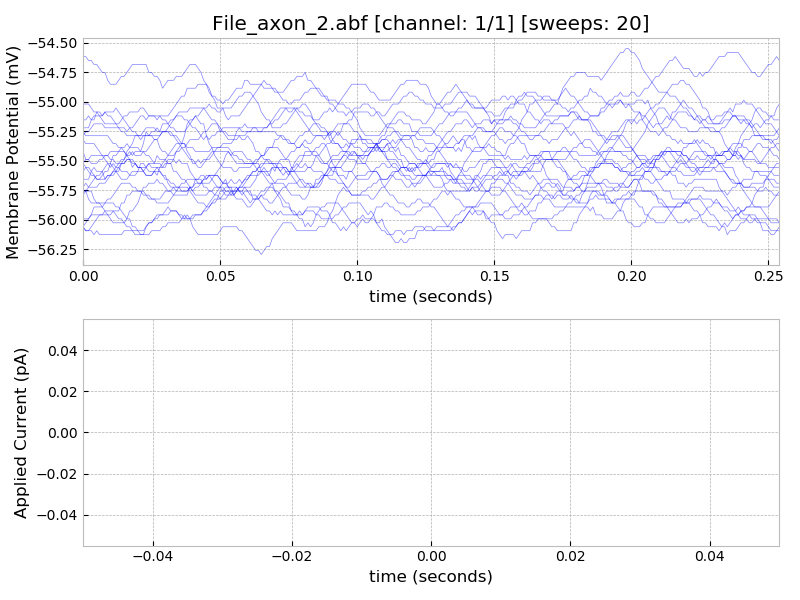
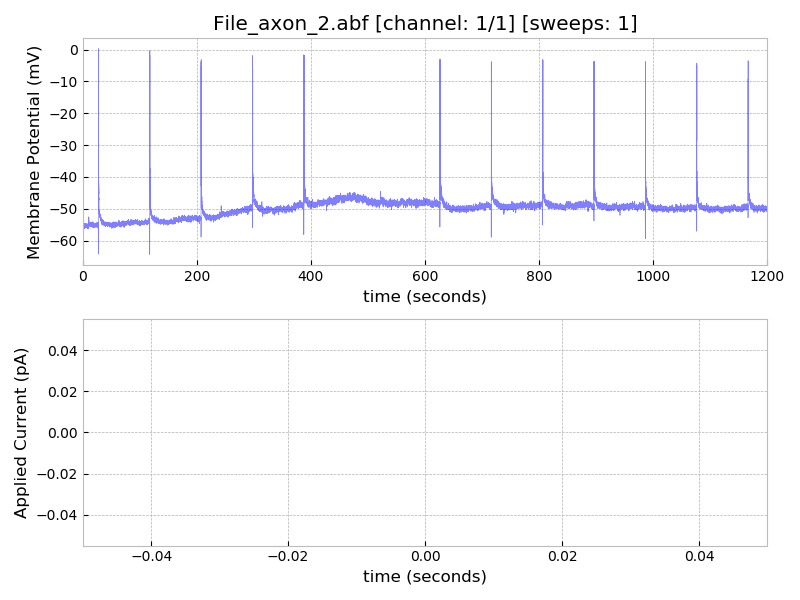
fixed ABF1 gap free bug
Previously some ABF1 gap free files were loading with numerous sweeps. Gap free files should have a single sweep. This fix corrected graphs/headers of 3 of files in the demo folder!

diff --git a/src/pyabf/abf.py b/src/pyabf/abf.py
@@ -224,8 +224,16 @@ class ABF:
     def _makeAdditionalVariables(self):
         """create or touch-up version-nonspecific variables."""
 
+        # ensure gap-free files have a single sweep
+        if self.abfVersion["major"]==1:
+            if self._headerV1.nOperationMode == 3:
+                self.sweepCount = 1
+        if self.abfVersion["major"]==2:
+            if self._protocolSection.nOperationMode == 3:
+                self.sweepCount = 1
+
         # sweep information
-        if self.sweepCount == 0:  # gap free
+        if self.sweepCount == 0:
             self.sweepCount = 1
         self.sweepPointCount = int(
             self.dataPointCount / self.sweepCount / self.channelCount)

diff --git a/dev/python/2018-11-20 test new abf.py b/dev/python/2018-11-20 test new abf.py
@@ -1,0 +1,23 @@
+"""
+I got an email indicating this ABF wouldn't load properly.
+It seems to be a gap-free protocol, but is being loaded as >1000 sweeps!
+"""
+
+import os
+import sys
+import glob
+import time
+import numpy as np
+import matplotlib.pyplot as plt
+
+PATH_HERE = os.path.abspath(os.path.dirname(__file__))
+PATH_DATA = os.path.abspath(PATH_HERE+"../../../data/abfs/")
+PATH_SRC = os.path.abspath(PATH_HERE+"../../../src/")
+sys.path.insert(0, PATH_SRC)
+import pyabf
+
+if __name__=="__main__":
+    abf = pyabf.ABF(PATH_DATA+"/sample trace_0054.abf")
+    plt.plot(abf.sweepX, abf.sweepY)
+    plt.show()
+    print(abf)

diff --git a/tests/tests/valueChecks.py b/tests/tests/valueChecks.py
@@ -69,6 +69,7 @@ FIRSTVALUES['File_axon_7'] = ['-1.48067']
 FIRSTVALUES['File_axon_1'] = ['2.18811']
 FIRSTVALUES['abf1_with_tags'] = ['-34.54589']
 FIRSTVALUES['2018_11_16_sh_0006'] = ['-119.14062']
+FIRSTVALUES['sample trace_0054'] = ['0.00931']
 
 def go():
     print("Checking first values ", end="")

diff --git a/data/readme.md b/data/readme.md
@@ -42,14 +42,14 @@ ABF Information | Header Map | Thumbnails
 **2018_08_23_0009.abf**<br />ABF Version: 2.6.0.0<br />Channels: 1 (pA)<br />Sweeps: 40<br />Protocol: _0201 memtest_ | ![headers/2018_08_23_0009_map.png](headers/2018_08_23_0009_map.png)<br />[view entire header](headers/2018_08_23_0009.md) | ![headers/2018_08_23_0009.png](headers/2018_08_23_0009.png)
 **2018_11_16_sh_0006.abf**<br />ABF Version: 2.6.0.0<br />Channels: 1 (pA)<br />Sweeps: 60<br />Protocol: _0201 memtest_ | ![headers/2018_11_16_sh_0006_map.png](headers/2018_11_16_sh_0006_map.png)<br />[view entire header](headers/2018_11_16_sh_0006.md) | ![headers/2018_11_16_sh_0006.png](headers/2018_11_16_sh_0006.png)
 **File_axon_1.abf**<br />ABF Version: 2.0.0.0<br />Channels: 1 (pA)<br />Sweeps: 1<br />Protocol: _VC_cour01G20_ | ![headers/File_axon_1_map.png](headers/File_axon_1_map.png)<br />[view entire header](headers/File_axon_1.md) | ![headers/File_axon_1.png](headers/File_axon_1.png)
-**File_axon_2.abf**<br />ABF Version: 1.8.3.0<br />Channels: 1 (mV)<br />Sweeps: 4688<br />Protocol: _Cc_minidigi_ | ![headers/File_axon_2_map.png](headers/File_axon_2_map.png)<br />[view entire header](headers/File_axon_2.md) | ![headers/File_axon_2.png](headers/File_axon_2.png)
+**File_axon_2.abf**<br />ABF Version: 1.8.3.0<br />Channels: 1 (mV)<br />Sweeps: 1<br />Protocol: _Cc_minidigi_ | ![headers/File_axon_2_map.png](headers/File_axon_2_map.png)<br />[view entire header](headers/File_axon_2.md) | ![headers/File_axon_2.png](headers/File_axon_2.png)
 **File_axon_3.abf**<br />ABF Version: 1.8.3.0<br />Channels: 2 (mV, pA)<br />Sweeps: 5<br />Protocol: _Cc_stim ONL_ | ![headers/File_axon_3_map.png](headers/File_axon_3_map.png)<br />[view entire header](headers/File_axon_3.md) | ![headers/File_axon_3.png](headers/File_axon_3.png)
 **File_axon_4.abf**<br />ABF Version: 2.0.0.0<br />Channels: 1 (pA)<br />Sweeps: 1<br />Protocol: _VC_cour01G20_ | ![headers/File_axon_4_map.png](headers/File_axon_4_map.png)<br />[view entire header](headers/File_axon_4.md) | ![headers/File_axon_4.png](headers/File_axon_4.png)
 **File_axon_5.abf**<br />ABF Version: 2.0.0.0<br />Channels: 1 (mV)<br />Sweeps: 9<br />Protocol: _step cclamp_ | ![headers/File_axon_5_map.png](headers/File_axon_5_map.png)<br />[view entire header](headers/File_axon_5.md) | ![headers/File_axon_5.png](headers/File_axon_5.png)
 **File_axon_6.abf**<br />ABF Version: 2.0.0.0<br />Channels: 2 (mV, nA)<br />Sweeps: 32<br />Protocol: _step cclamp 2nA for 2ms_ | ![headers/File_axon_6_map.png](headers/File_axon_6_map.png)<br />[view entire header](headers/File_axon_6.md) | ![headers/File_axon_6.png](headers/File_axon_6.png)
 **File_axon_7.abf**<br />ABF Version: 2.6.0.0<br />Channels: 1 (pA)<br />Sweeps: 12<br />Protocol: _Apl NMDA 2 s -80mV cada 2ms esp 10 2480us_ | ![headers/File_axon_7_map.png](headers/File_axon_7_map.png)<br />[view entire header](headers/File_axon_7.md) | ![headers/File_axon_7.png](headers/File_axon_7.png)
-**abf1_with_tags.abf**<br />ABF Version: 1.8.3.0<br />Channels: 1 (pA)<br />Sweeps: 8721<br />Protocol: _15minGapfree_ | ![headers/abf1_with_tags_map.png](headers/abf1_with_tags_map.png)<br />[view entire header](headers/abf1_with_tags.md) | ![headers/abf1_with_tags.png](headers/abf1_with_tags.png)
+**abf1_with_tags.abf**<br />ABF Version: 1.8.3.0<br />Channels: 1 (pA)<br />Sweeps: 1<br />Protocol: _15minGapfree_ | ![headers/abf1_with_tags_map.png](headers/abf1_with_tags_map.png)<br />[view entire header](headers/abf1_with_tags.md) | ![headers/abf1_with_tags.png](headers/abf1_with_tags.png)
 **model_vc_ramp.abf**<br />ABF Version: 2.6.0.0<br />Channels: 1 (pA)<br />Sweeps: 50<br />Protocol: _0204 Cm ramp_ | ![headers/model_vc_ramp_map.png](headers/model_vc_ramp_map.png)<br />[view entire header](headers/model_vc_ramp.md) | ![headers/model_vc_ramp.png](headers/model_vc_ramp.png)
 **model_vc_step.abf**<br />ABF Version: 2.6.0.0<br />Channels: 1 (pA)<br />Sweeps: 20<br />Protocol: _0201 memtest_ | ![headers/model_vc_step_map.png](headers/model_vc_step_map.png)<br />[view entire header](headers/model_vc_step.md) | ![headers/model_vc_step.png](headers/model_vc_step.png)
-**sample trace_0054.abf**<br />ABF Version: 1.6.4.9<br />Channels: 1 (nA)<br />Sweeps: 1081<br />Protocol: _slaven-Ch1-gapfree_ | ![headers/sample%20trace_0054_map.png](headers/sample%20trace_0054_map.png)<br />[view entire header](headers/sample%20trace_0054.md) | ![headers/sample%20trace_0054.png](headers/sample%20trace_0054.png)
+**sample trace_0054.abf**<br />ABF Version: 1.6.4.9<br />Channels: 1 (nA)<br />Sweeps: 1<br />Protocol: _slaven-Ch1-gapfree_ | ![headers/sample%20trace_0054_map.png](headers/sample%20trace_0054_map.png)<br />[view entire header](headers/sample%20trace_0054.md) | ![headers/sample%20trace_0054.png](headers/sample%20trace_0054.png)
 **sine sweep magnitude 20.abf**<br />ABF Version: 2.0.0.0<br />Channels: 1 ()<br />Sweeps: 1<br />Protocol: _(untitled)_ | ![headers/sine%20sweep%20magnitude%2020_map.png](headers/sine%20sweep%20magnitude%2020_map.png)<br />[view entire header](headers/sine%20sweep%20magnitude%2020.md) | ![headers/sine%20sweep%20magnitude%2020.png](headers/sine%20sweep%20magnitude%2020.png)

diff --git a/data/headers/File_axon_2.md b/data/headers/File_axon_2.md
@@ -45,21 +45,21 @@
 * stimulusByChannel = `[ChannelEpochs(ABF, 0)]`
 * sweepC = `array (1d) with values like: nan, nan, nan, ..., nan, nan, nan`
 * sweepChannel = `0`
-* sweepCount = `4688`
+* sweepCount = `1`
 * sweepLabelC = `Applied Current (pA)`
 * sweepLabelX = `time (seconds)`
 * sweepLabelY = `Membrane Potential (mV)`
-* sweepLengthSec = `0.255`
-* sweepList = `[0, 1, 2, ..., 4685, 4686, 4687]`
+* sweepLengthSec = `1200.0`
+* sweepList = `[0]`
 * sweepNumber = `0`
-* sweepPointCount = `255`
+* sweepPointCount = `1200000`
 * sweepUnitsC = `?`
 * sweepUnitsX = `sec`
 * sweepUnitsY = `mV`
-* sweepX = `array (1d) with values like: 0.00000, 0.00100, 0.00200, ..., 0.25200, 0.25300, 0.25400`
-* sweepY = `array (1d) with values like: -55.28870, -55.25513, -55.25513, ..., -55.15442, -55.15442, -55.15442`
+* sweepX = `array (1d) with values like: 0.00000, 0.00100, 0.00200, ..., 1199.99700, 1199.99800, 1199.99900`
+* sweepY = `array (1d) with values like: -55.28870, -55.25513, -55.25513, ..., -50.45471, -50.42114, -50.42114`
 * tagComments = `['Clampex start acquisition', 'C:\\Axon\\rsultats\\06-05\\11-06-05\\05611005.abf', 'Clampex end (1)', 'Clampex start acquisition']`
-* tagSweeps = `[104.9607843137255, 1673.337254901961, 1673.337254901961, 2452.443137254902]`
+* tagSweeps = `[0.022304166666666667, 0.3555841666666667, 0.3555841666666667, 0.5211441666666667]`
 * tagTimesMin = `[0.44608333333333333, 7.111683333333334, 7.111683333333334, 10.422883333333335]`
 * tagTimesSec = `[26.765, 426.701, 426.701, 625.373]`
 

diff --git a/data/headers/abf1_with_tags.md b/data/headers/abf1_with_tags.md
@@ -45,21 +45,21 @@
 * stimulusByChannel = `[ChannelEpochs(ABF, 0)]`
 * sweepC = `array (1d) with values like: nan, nan, nan, ..., nan, nan, nan`
 * sweepChannel = `0`
-* sweepCount = `8721`
+* sweepCount = `1`
 * sweepLabelC = `Membrane Potential (mV)`
 * sweepLabelX = `time (seconds)`
 * sweepLabelY = `Clamp Current (pA)`
-* sweepLengthSec = `0.10315`
-* sweepList = `[0, 1, 2, ..., 8718, 8719, 8720]`
+* sweepLengthSec = `900.0`
+* sweepList = `[0]`
 * sweepNumber = `0`
-* sweepPointCount = `2063`
+* sweepPointCount = `18000000`
 * sweepUnitsC = `?`
 * sweepUnitsX = `sec`
 * sweepUnitsY = `pA`
-* sweepX = `array (1d) with values like: 0.00000, 0.00005, 0.00010, ..., 0.10300, 0.10305, 0.10310`
-* sweepY = `array (1d) with values like: -34.54589, -34.36279, -34.91211, ..., -37.84179, -38.57421, -38.94043`
+* sweepX = `array (1d) with values like: 0.00000, 0.00005, 0.00010, ..., 899.99985, 899.99990, 899.99995`
+* sweepY = `array (1d) with values like: -34.54589, -34.36279, -34.91211, ..., -82.33642, -81.29882, -80.74950`
 * tagComments = `['APV+CGP+DNQX+ON@6']`
-* tagSweeps = `[3634.997576345129]`
+* tagSweeps = `[0.41661111111111115]`
 * tagTimesMin = `[6.249166666666667]`
 * tagTimesSec = `[374.95000000000005]`
 

diff --git a/data/headers/sample trace_0054.md b/data/headers/sample trace_0054.md
@@ -45,19 +45,19 @@
 * stimulusByChannel = `[ChannelEpochs(ABF, 0)]`
 * sweepC = `array (1d) with values like: nan, nan, nan, ..., nan, nan, nan`
 * sweepChannel = `0`
-* sweepCount = `1081`
+* sweepCount = `1`
 * sweepLabelC = `? (?)`
 * sweepLabelX = `time (seconds)`
 * sweepLabelY = `IN 0 (nA)`
-* sweepLengthSec = `0.04124`
-* sweepList = `[0, 1, 2, ..., 1078, 1079, 1080]`
+* sweepLengthSec = `44.6`
+* sweepList = `[0]`
 * sweepNumber = `0`
-* sweepPointCount = `2062`
+* sweepPointCount = `2230000`
 * sweepUnitsC = `?`
 * sweepUnitsX = `sec`
 * sweepUnitsY = `nA`
-* sweepX = `array (1d) with values like: 0.00000, 0.00002, 0.00004, ..., 0.04118, 0.04120, 0.04122`
-* sweepY = `array (1d) with values like: 0.00931, 0.01373, 0.03296, ..., 0.02167, 0.01312, 0.03372`
+* sweepX = `array (1d) with values like: 0.00000, 0.00002, 0.00004, ..., 44.59994, 44.59996, 44.59998`
+* sweepY = `array (1d) with values like: 0.00931, 0.01373, 0.03296, ..., 0.01694, 0.02716, 0.02365`
 * tagComments = `[]`
 * tagSweeps = `[]`
 * tagTimesMin = `[]`
